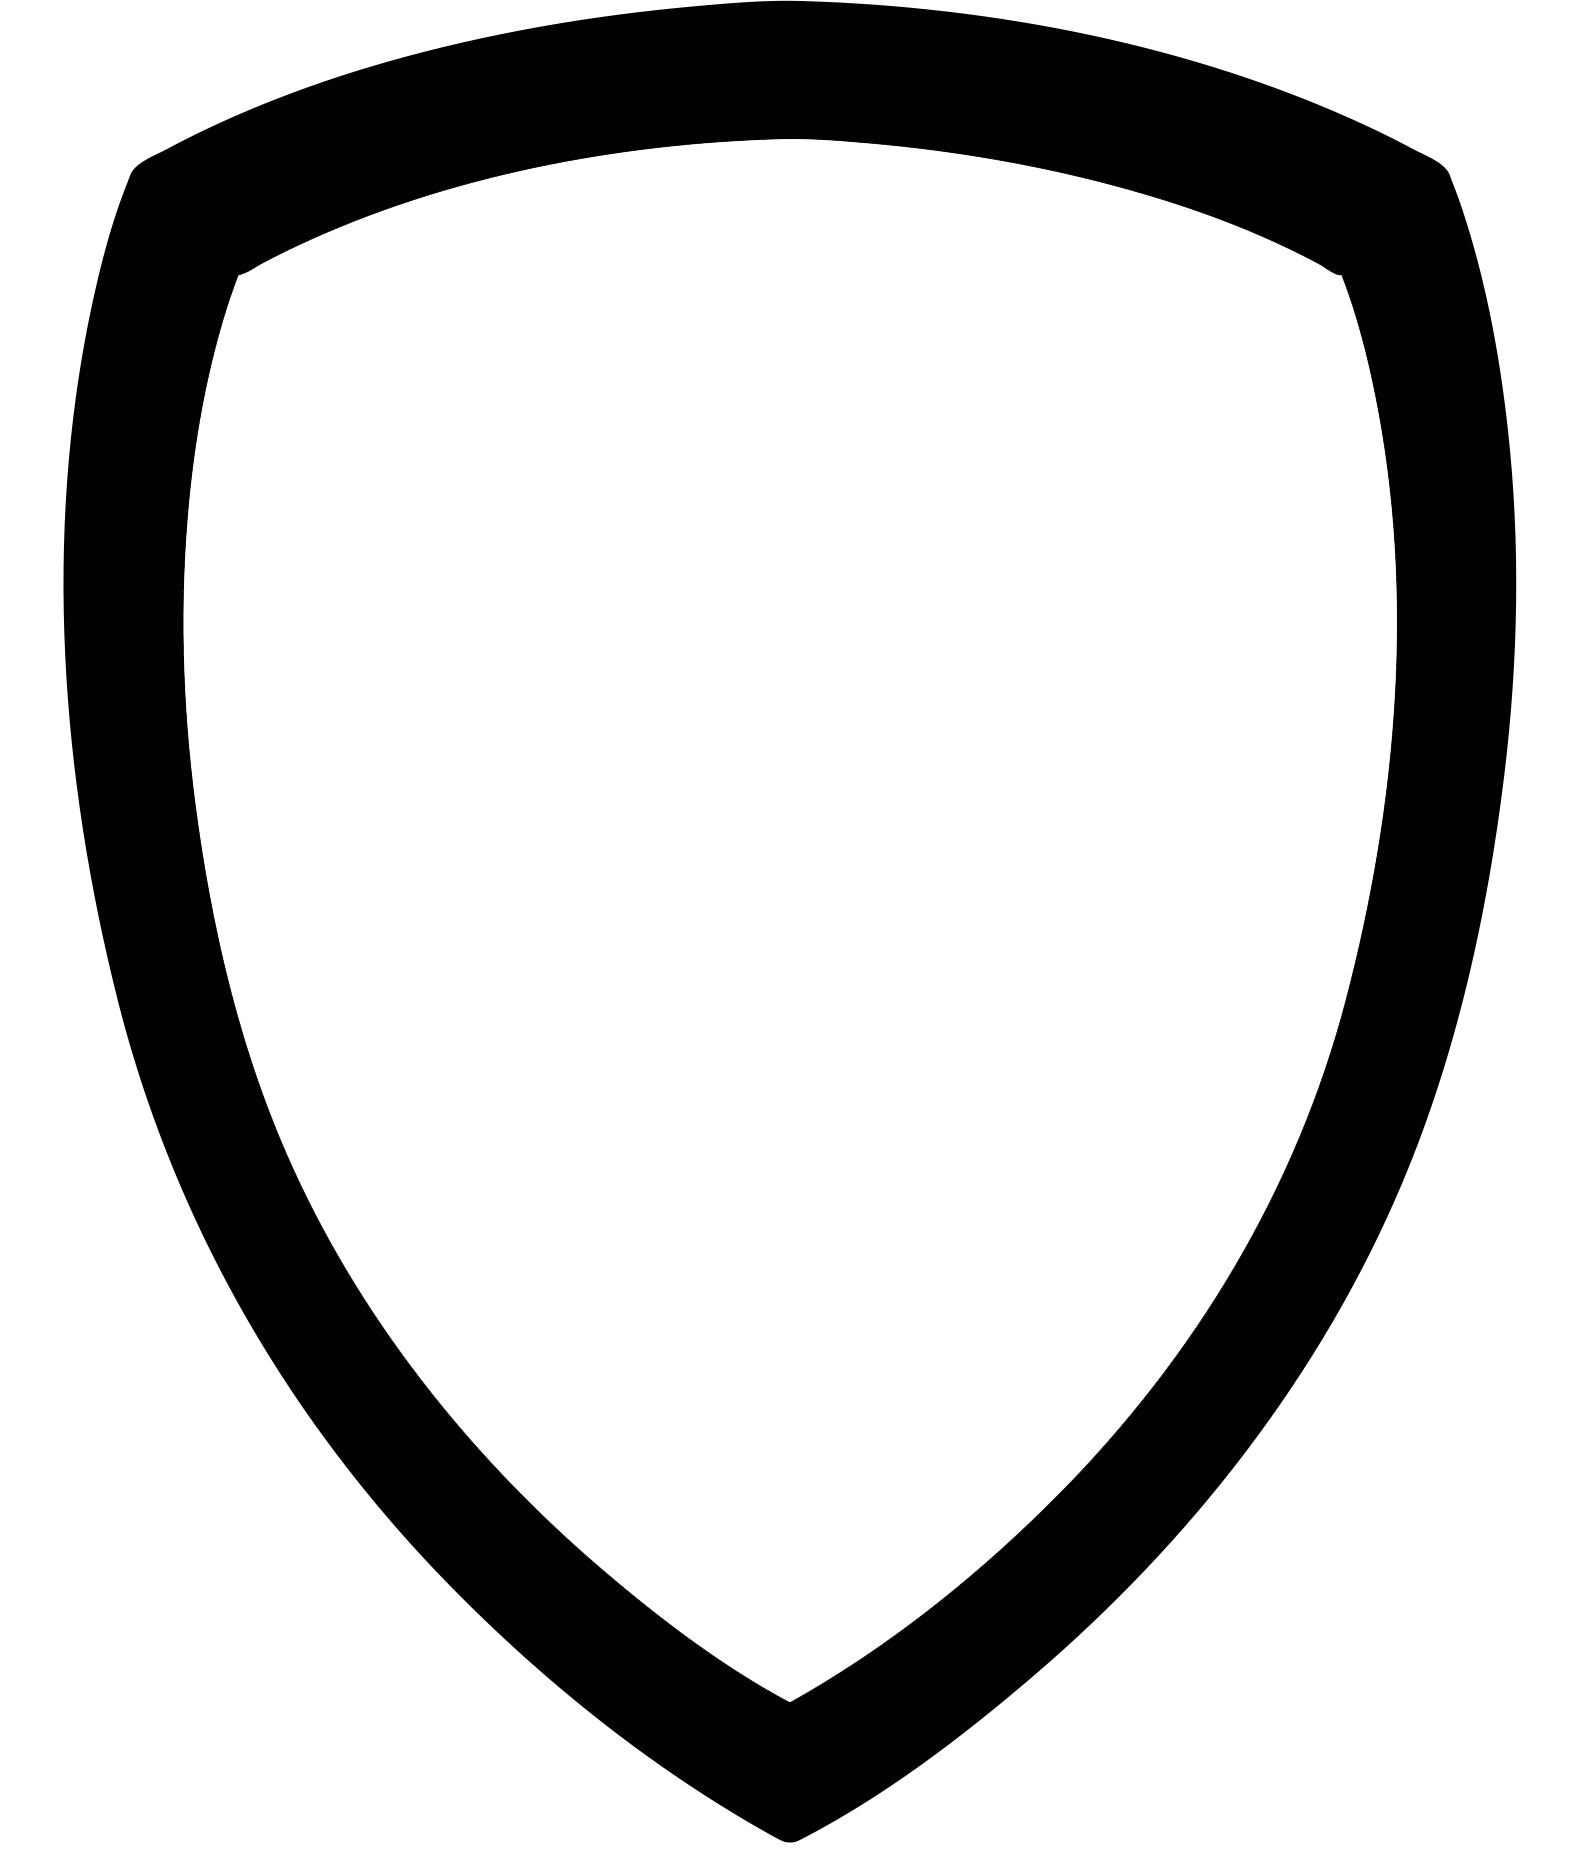
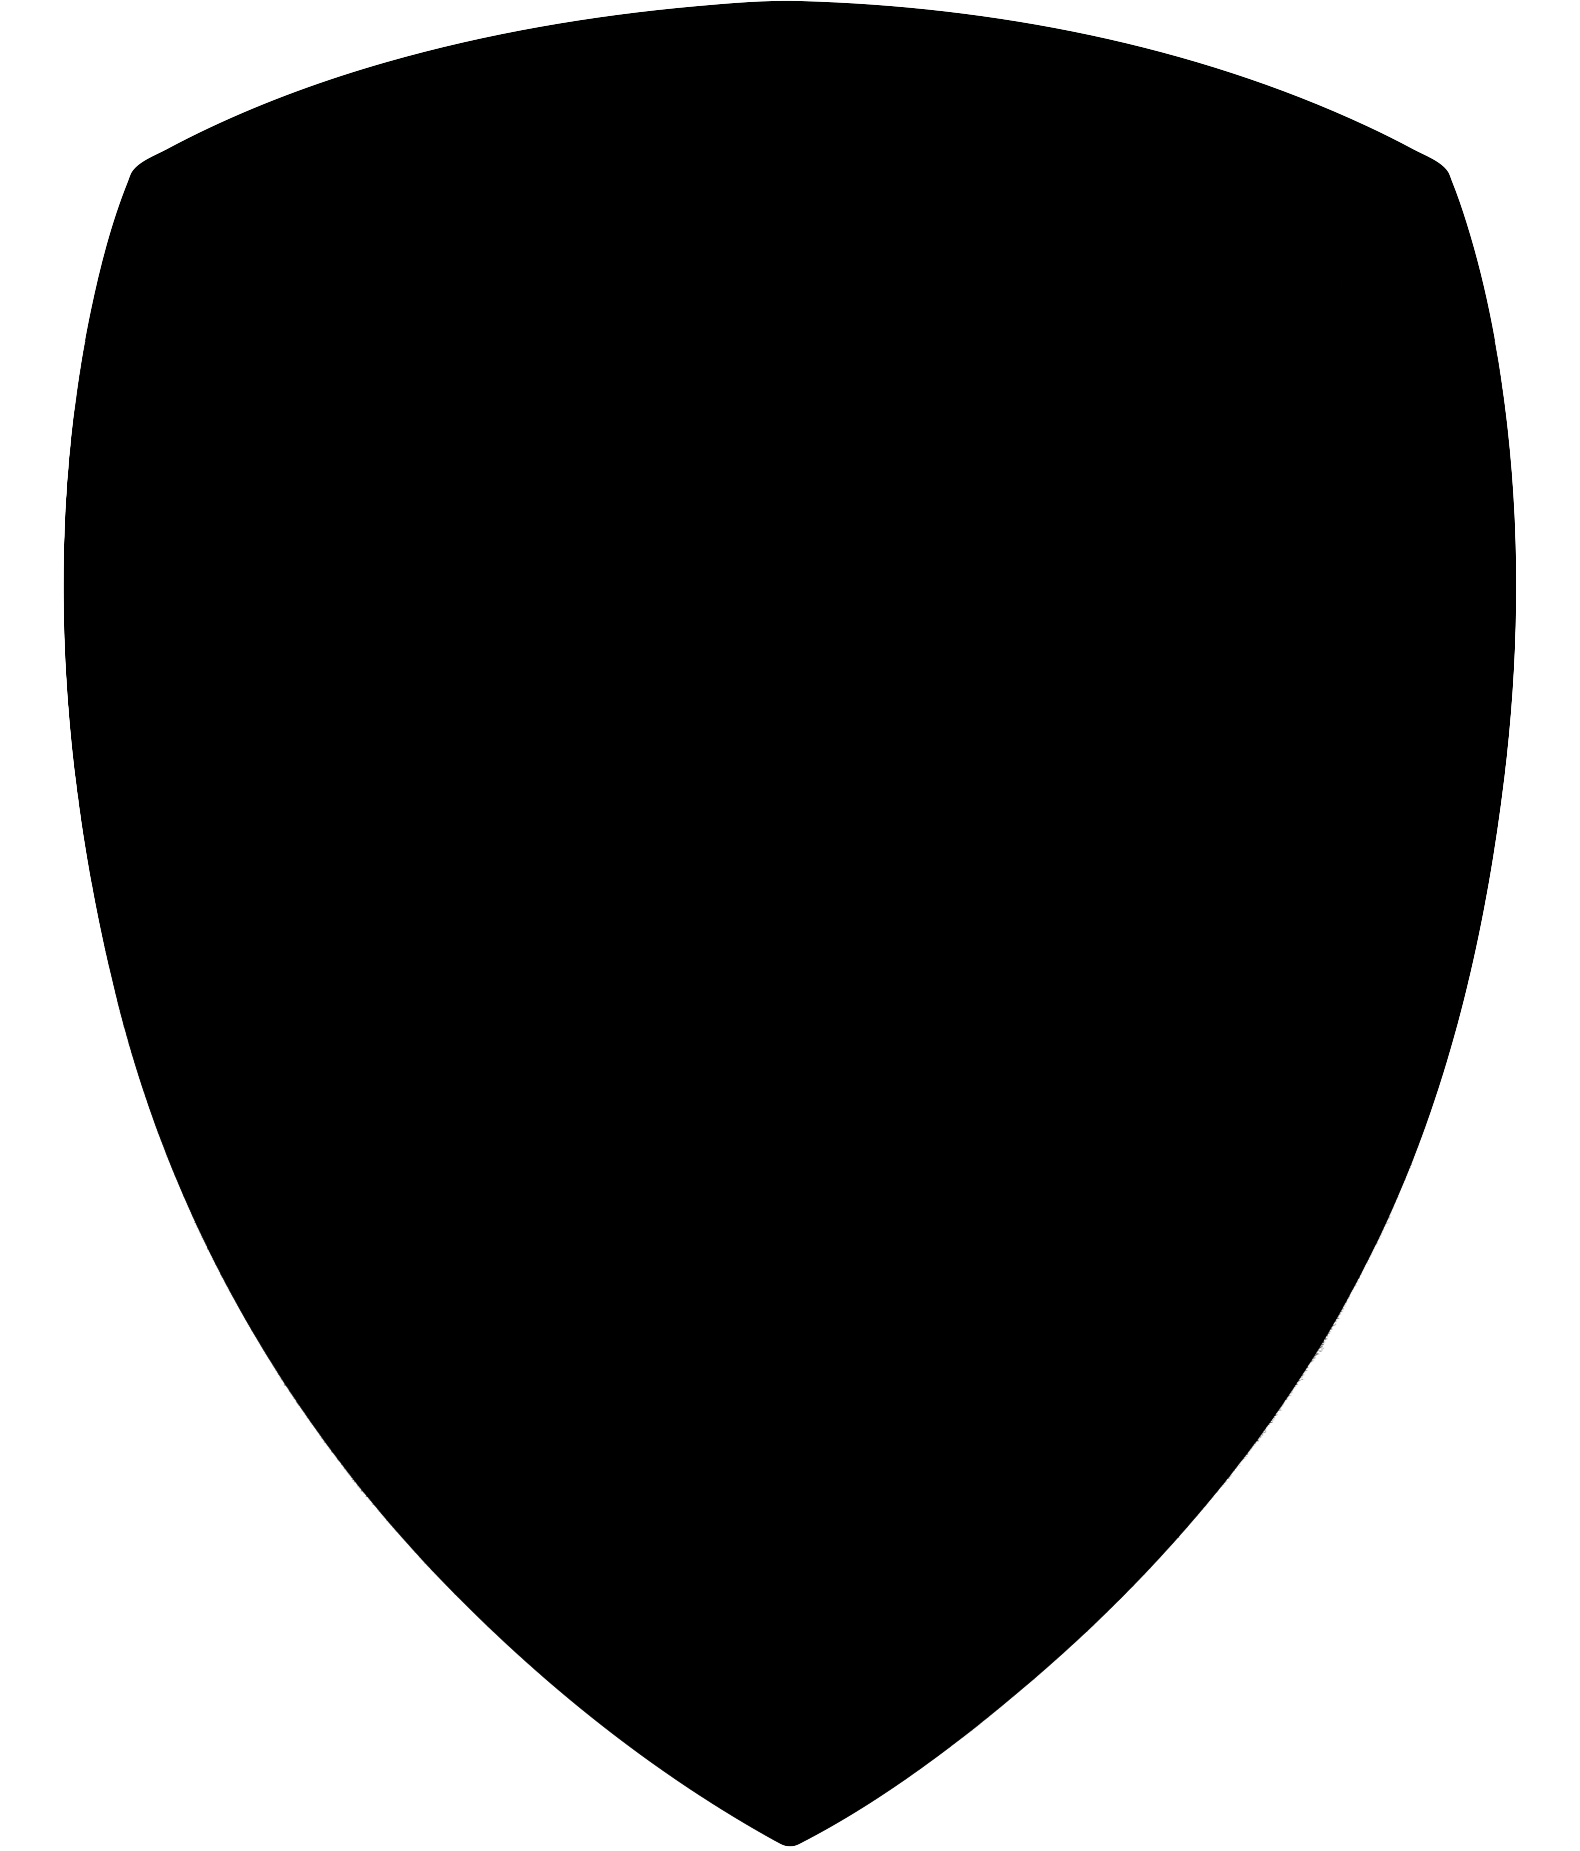
A

diff --git a/assets/rs-portal-header.css b/assets/rs-portal-header.css
@@ -115,31 +115,37 @@ body.rs-portal-header .header-wrap .container {
   }
 }
 
-body.rs-portal-header .header-wrap .rs-header-main-row--desktop {
-  display: flex !important;
-  flex-direction: column !important;
-  gap: 0 !important;
-  padding: 0 !important;
-}
+/*
+ * Rangée « bureau » : uniquement ≥900px. Sinon on écrase le display:none mobile
+ * de rs-shopify-header.css → deux barres (mobile + desktop) visibles en même temps.
+ */
+@media (min-width: 900px) {
+  body.rs-portal-header .header-wrap .rs-header-main-row--desktop {
+    display: flex !important;
+    flex-direction: column !important;
+    gap: 0 !important;
+    padding: 0 !important;
+  }
 
-body.rs-portal-header .header-wrap .rs-header-top-line {
-  display: flex !important;
-  align-items: center !important;
-  justify-content: space-between !important;
-  gap: 16px !important;
-  min-height: 56px !important;
-  height: 56px !important;
-  max-width: none !important;
-  width: 100% !important;
-  margin-left: 0 !important;
-  margin-right: 0 !important;
-  border-bottom: none !important;
-  padding: 0 !important;
-}
+  body.rs-portal-header .header-wrap .rs-header-top-line {
+    display: flex !important;
+    align-items: center !important;
+    justify-content: space-between !important;
+    gap: 16px !important;
+    min-height: 56px !important;
+    height: 56px !important;
+    max-width: none !important;
+    width: 100% !important;
+    margin-left: 0 !important;
+    margin-right: 0 !important;
+    border-bottom: none !important;
+    padding: 0 !important;
+  }
 
-body.rs-portal-header .header-wrap .rs-banner-top.rs-header-pole-brand {
-  display: flex !important;
-  align-items: center !important;
+  body.rs-portal-header .header-wrap .rs-banner-top.rs-header-pole-brand {
+    display: flex !important;
+    align-items: center !important;
+  }
 }
 
 @media (min-width: 900px) {

diff --git a/assets/rs-hero-runway.css b/assets/rs-hero-runway.css
@@ -139,7 +139,7 @@ body[data-rs-page='index'] .rs-hero-runway__copy {
   box-shadow:
     0 1px 0 rgba(255, 255, 255, 0.1) inset,
     0 24px 56px rgba(0, 0, 0, 0.38);
-  /* Écusson : SVG dans assets, URL injectée sur la section (template index) */
+  /* Écusson (PNG plein) : taille du bloc = taille du masque avec contain */
   -webkit-mask-image: var(--rs-hr-copy-mask-url, none);
   mask-image: var(--rs-hr-copy-mask-url, none);
   -webkit-mask-repeat: no-repeat;
@@ -149,6 +149,22 @@ body[data-rs-page='index'] .rs-hero-runway__copy {
   -webkit-mask-size: contain;
   mask-size: contain;
   mask-mode: alpha;
+  width: 100%;
+  /* Téléphone : écusson un peu plus compact */
+  max-width: min(22rem, calc(100vw - 1.75rem));
+}
+
+@media (min-width: 600px) and (max-width: 899.98px) {
+  body[data-rs-page='index'] .rs-hero-runway__copy {
+    max-width: min(30rem, calc(100vw - 2.25rem));
+  }
+}
+
+@media (min-width: 900px) {
+  body[data-rs-page='index'] .rs-hero-runway__copy {
+    /* Bureau : plus large que le mobile */
+    max-width: min(44rem, min(90vw, 720px));
+  }
 }
 
 body[data-rs-page='index'] .rs-hero-runway__copy .rs-hero-runway__kicker,
